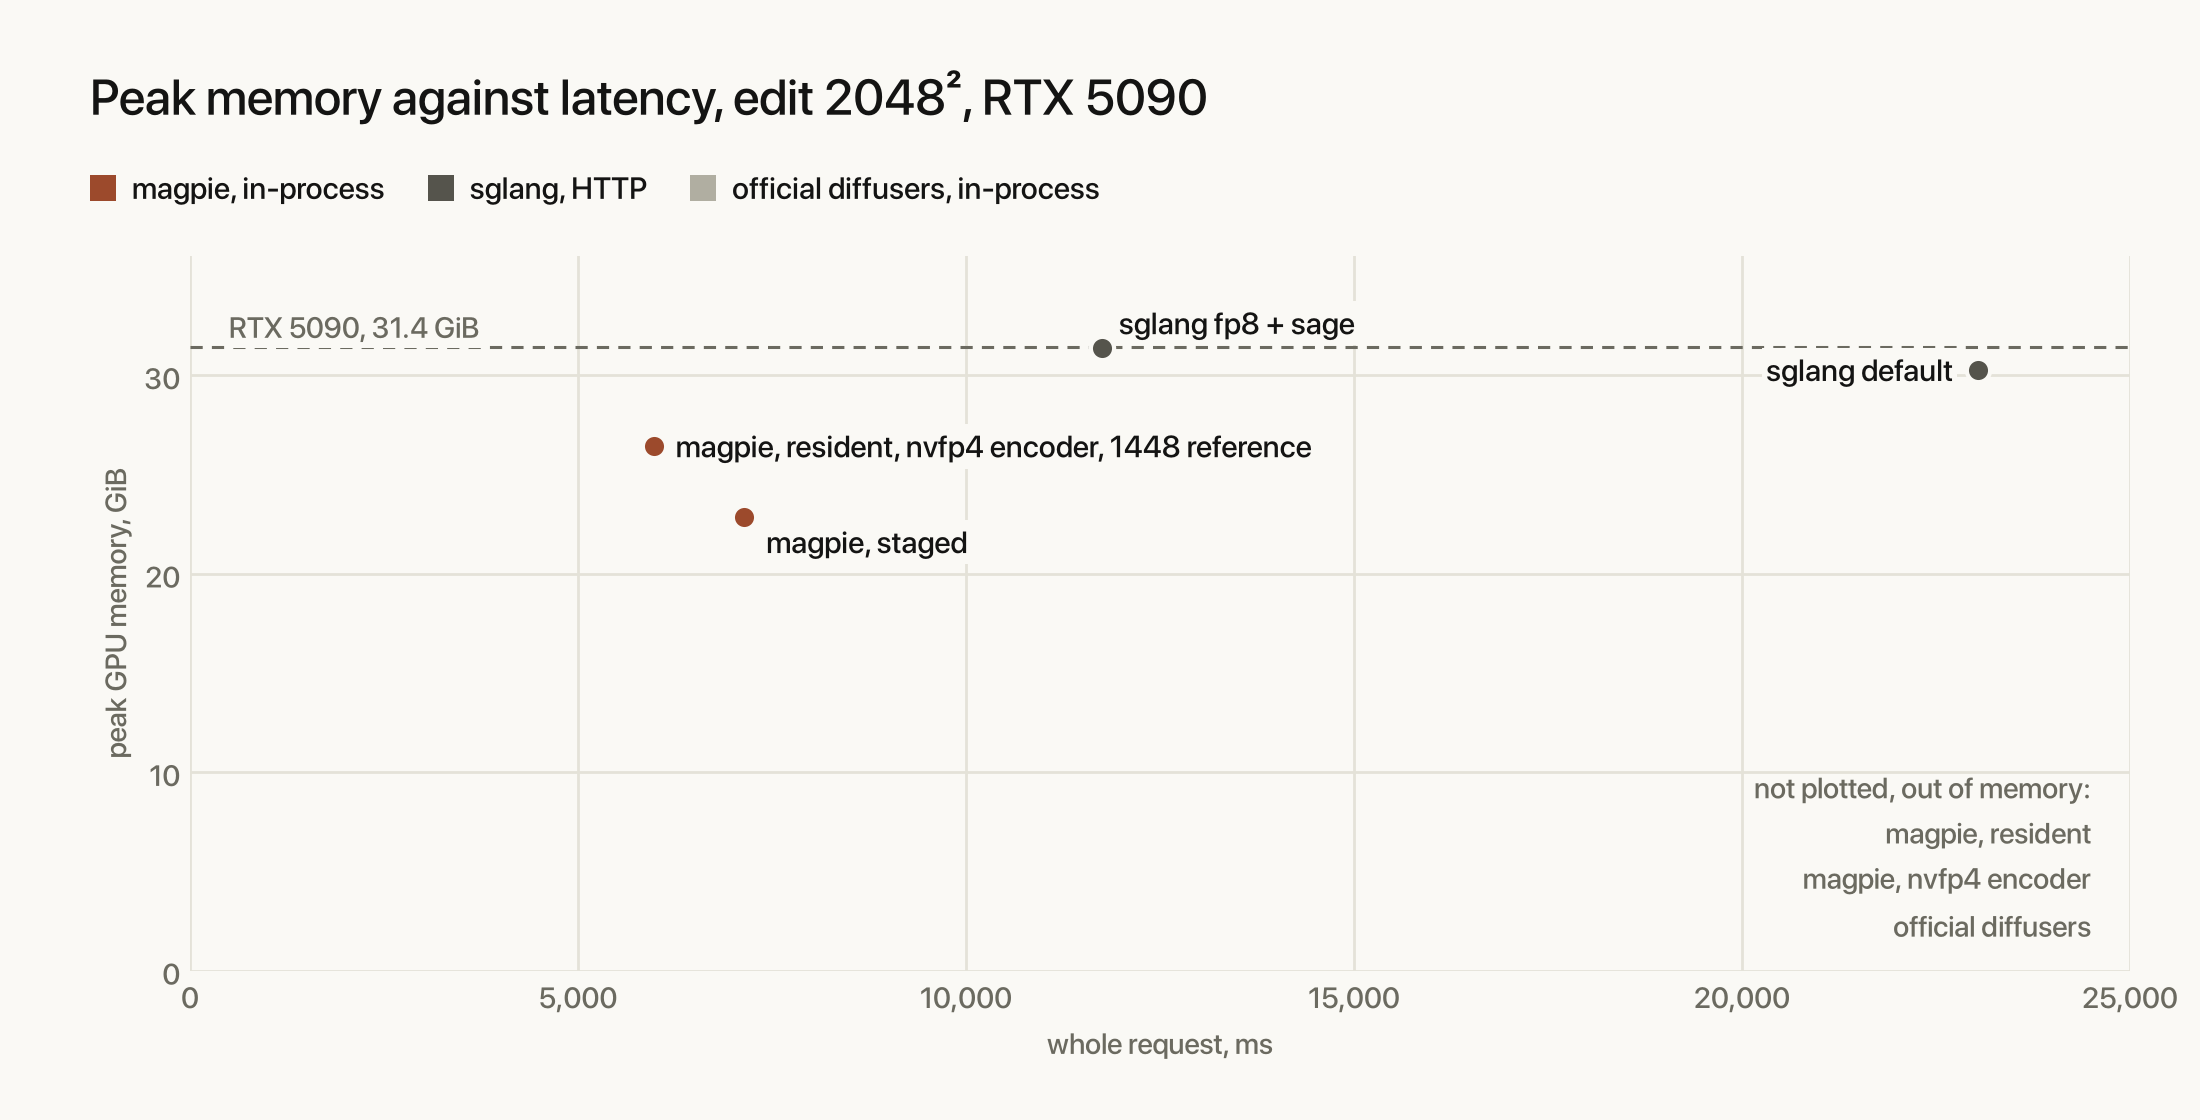
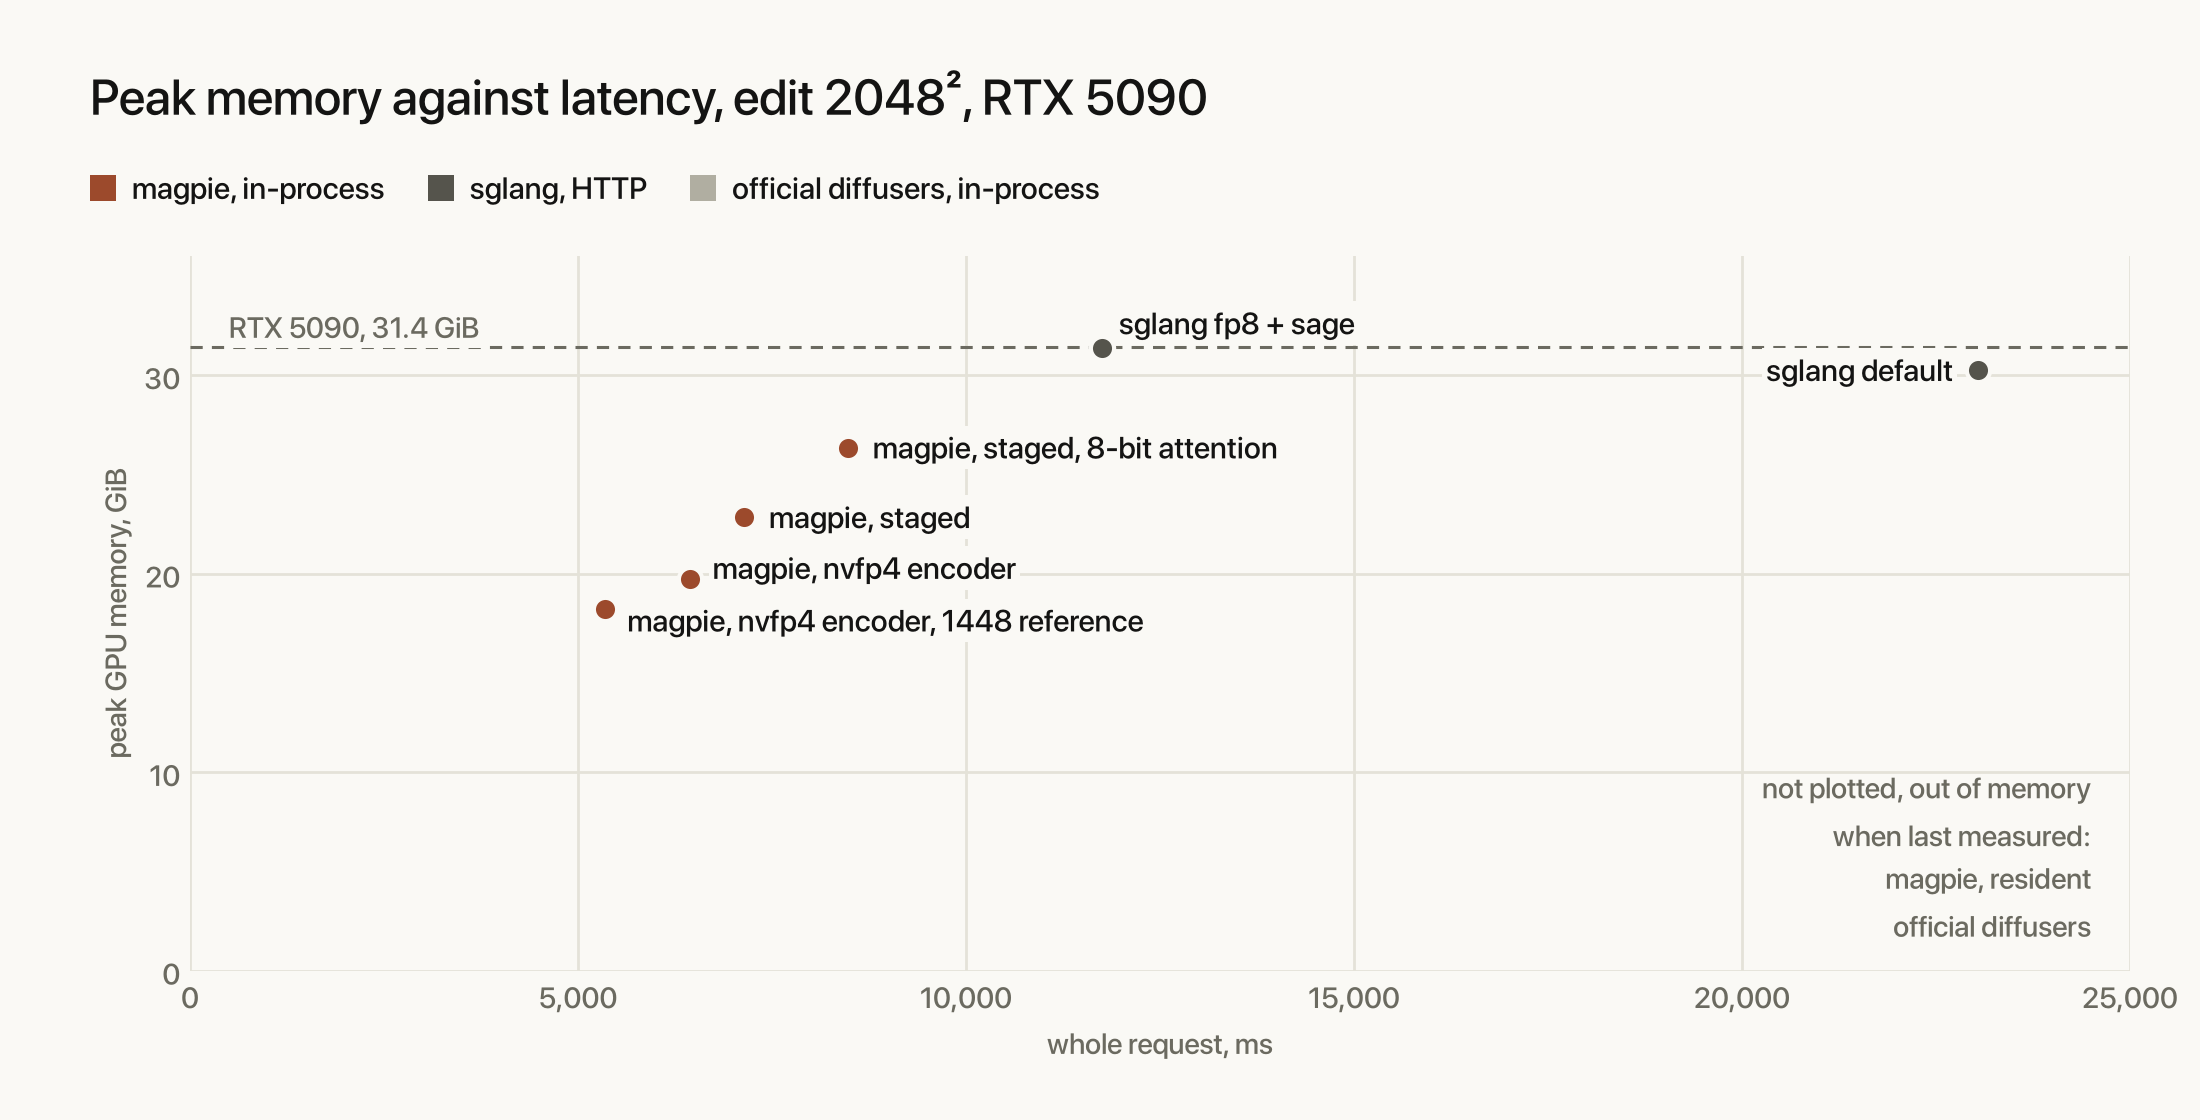
5090 numbers after the 2026-10-14 levers: a 2048 edit resident at 5.35 s / 18.2 GiB (nvfp4 encoder, 1448 reference), full 2048 references now fit (6.45 s / 19.7 GiB); readme names the nvfp4 mlp as the text-to-image gate failure; 2048 memory chart regenerated, its pre-lever points marked
Claude-Session: https://claude.ai/code/session_014DoVgNe2bBmPQtGZkiR6jS

Changed region(s): [[0.2473, 0.375, 0.5873, 0.5625], [0.8036, 0.6875, 0.9582, 0.8125]]

diff --git a/README.md b/README.md
@@ -111,10 +111,12 @@ Edit a generated image with a different seed from the one that drew it; the same
 ## limits
 
 - An RTX 5090 fits one reference at 2048² and up to eleven at 1024² (three with the encoder resident). A 2048² edit
-  stays fully resident with `MAGPIE_ENCODER=nvfp4`: 5.97 s, 26.4 GiB.
+  stays fully resident: 5.35 s and 18.2 GiB with `MAGPIE_ENCODER=nvfp4` (1448² reference), 5.41 s and 27.5 GiB with
+  the bf16 encoder.
 - 4-bit attention is used only for 2048-class outputs; everything else runs 8-bit.
 - Text-to-image keeps the subject and style but shifts the composition against the bf16 baseline: it does not pass
-  the gate (DINOv2 min 0.90 at 1024² and 2048²).
+  the gate (DINOv2 min 0.90 at 1024² and 2048²). The NVFP4 MLP weights cause it; with MXFP8 MLP weights it passes
+  (0.984 at 1024²).
 - Turbo only. The 40-step base checkpoint runs in the port but is not tuned or gated.
 
 ## layout
